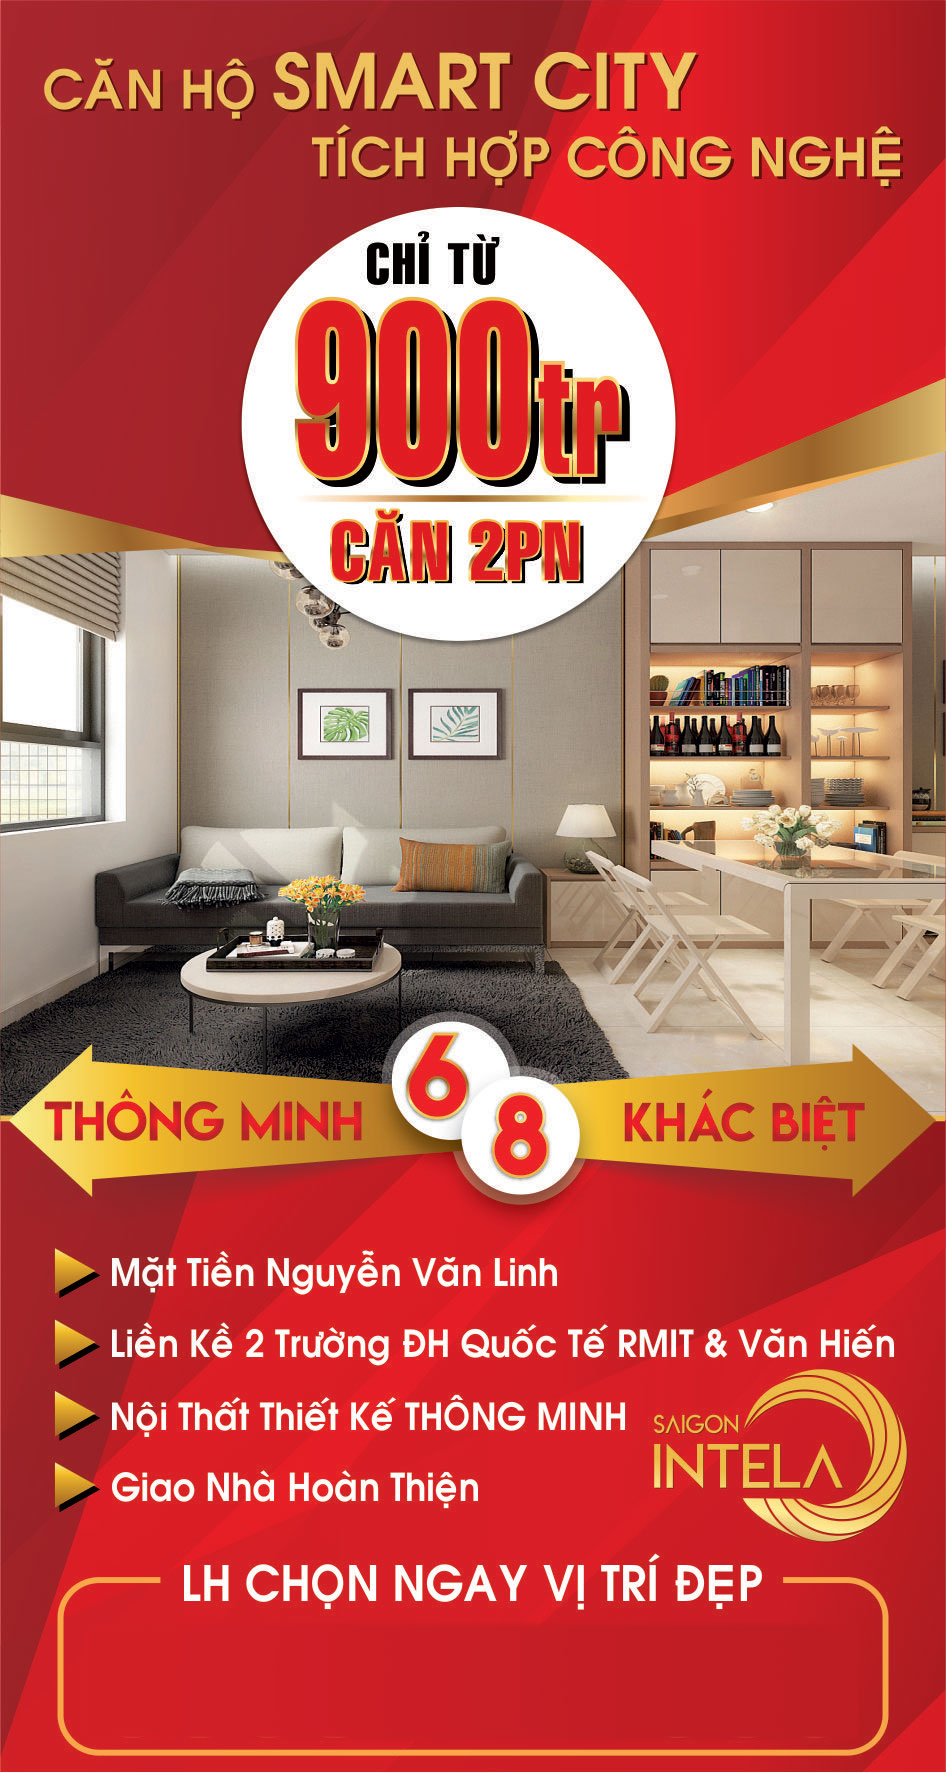
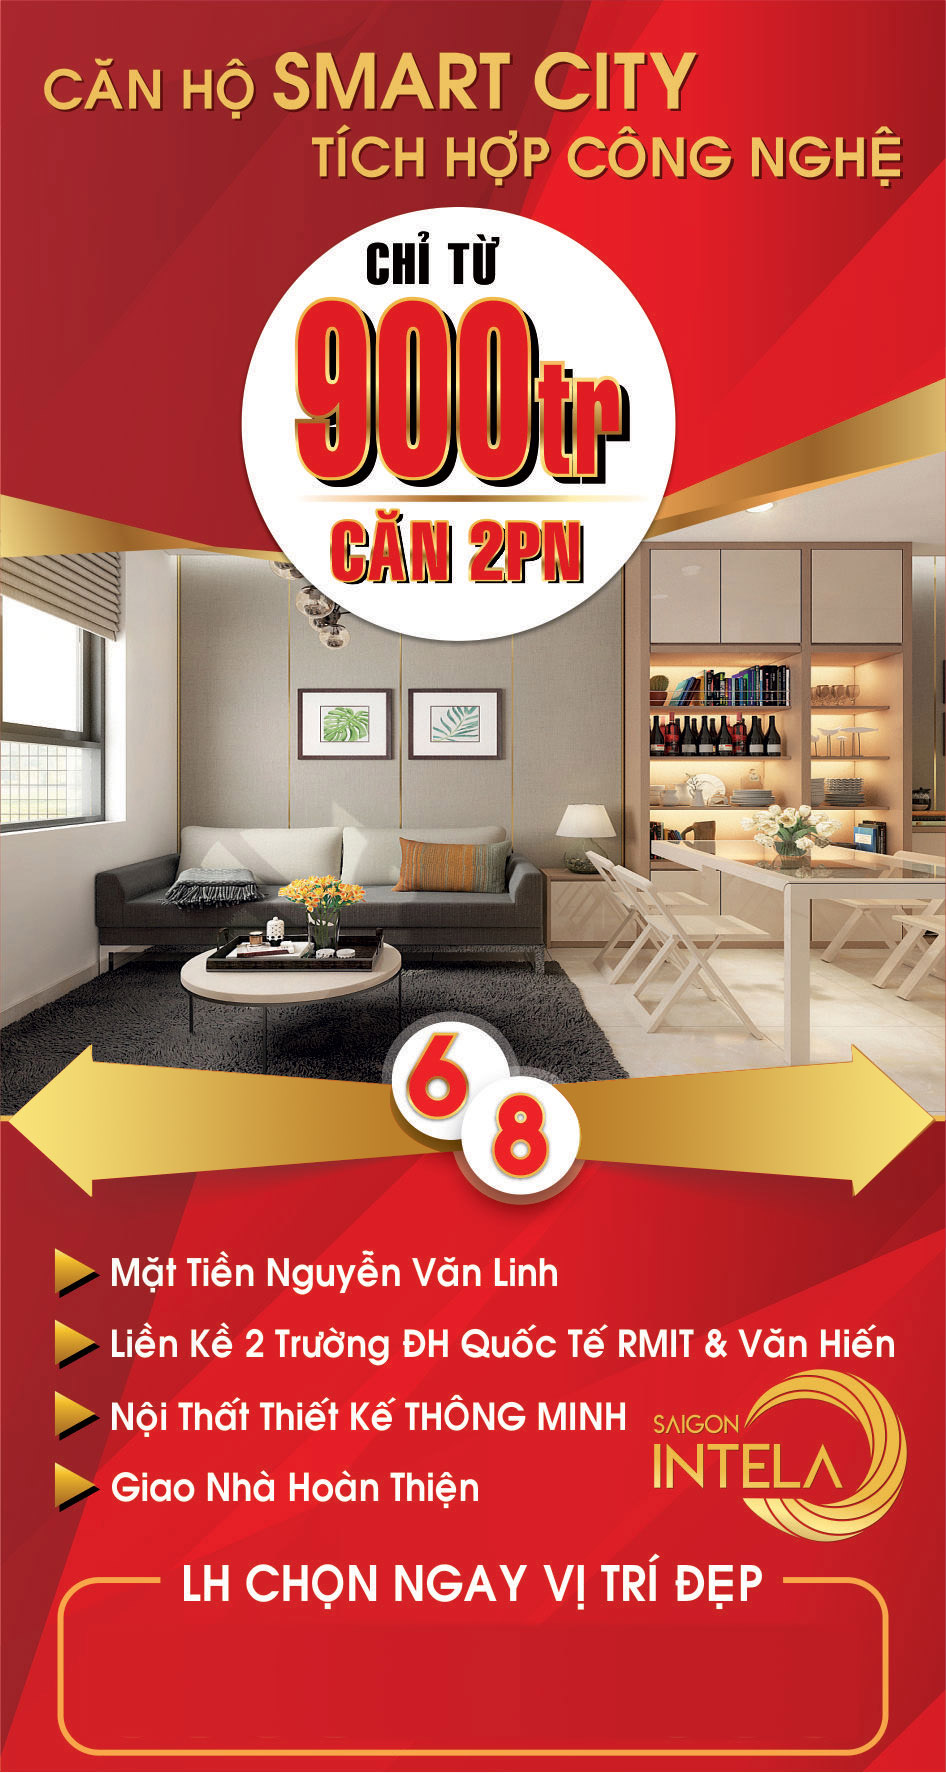
ok

Changed region(s): [[0.5825, 0.5894, 0.981, 0.6825], [0.0307, 0.5894, 0.4598, 0.6825]]

diff --git a/css/frontend.css b/css/frontend.css
@@ -412,27 +412,44 @@ This class is added to the container
   position: absolute;
   display: block;
   text-align: center;
-  top: 90.5%;
+  top: 63.5%;
   z-index: 99999;
-  min-height: 100vh;
-  color: white;
+  color: #9b1e22;
   width: 100%;
+  font-weight: 900;
 }
 
 .slider-on-mobile .slider-mobile-text .slider-header {
-  font-size: 40px;
+  font-size: 20px;
   text-transform: uppercase;
+  float: left;
+  padding-left: 5%;
+}
+
+.slider-on-mobile .slider-mobile-text .slider-header a {
+  color: #9b1e22;
 }
 
 .slider-on-mobile .slider-mobile-text .slider-description {
-  font-size: 25px;
-  margin-top: 20px;
-  padding-left: 20px;
-  padding-right: 20px;
-  line-height: 1.6;
+  font-size: 20px;
+  float: right;
+  padding-right: 7%;
 }
 
-.slider-on-mobile .slider-mobile-text .btn-lienhe {
+.slider-on-mobile .slider-mobile-text .slider-description a {
+  color: #9b1e22;
+}
+
+.slider-on-mobile .slider-lienhe {
+  position: absolute;
+  top: 90.5%;
+  z-index: 99999;
+  min-height: 100vh;
+  width: 100%;
+  text-align: center;
+}
+
+.slider-on-mobile .slider-lienhe .btn-lienhe {
   background-color: #960d13;
   color: #fff;
   text-transform: uppercase;
@@ -451,6 +468,23 @@ This class is added to the container
   min-height: 100vh;
   width: 100%;
   top: 0;
+}
+
+.blink_me {
+  -webkit-animation: blinker 1s linear infinite;
+          animation: blinker 1s linear infinite;
+}
+
+@-webkit-keyframes blinker {
+  50% {
+    opacity: 0;
+  }
+}
+
+@keyframes blinker {
+  50% {
+    opacity: 0;
+  }
 }
 
 @media screen and (max-width: 415px) {

diff --git a/local/resources/assets/sass/fe.slider.scss b/local/resources/assets/sass/fe.slider.scss
@@ -33,22 +33,36 @@
     position: absolute;
     display: block;
     text-align: center;
-    top: 90.5%;
+    top: 63.5%;
     z-index: 99999;
-    min-height: 100vh;
-    color: white;
+    color: #9b1e22;
     width: 100%;
+    font-weight: 900;
     .slider-header{
-      font-size: 40px;
+      font-size: 20px;
       text-transform: uppercase;
+      float:left;
+      padding-left:5%;
+      a{
+        color: #9b1e22;
+      }
     }
     .slider-description{
-      font-size: 25px;
-      margin-top: 20px;
-      padding-left: 20px;
-      padding-right: 20px;
-      line-height: 1.6;
+      font-size: 20px;
+      float: right;
+      padding-right:7%;
+      a{
+        color: #9b1e22;
+      }
     }
+  }
+  .slider-lienhe{
+    position: absolute;
+    top:90.5%;
+    z-index: 99999;
+    min-height: 100vh;
+    width: 100%;
+    text-align: center;
     .btn-lienhe{
       background-color: #960d13;
       color: #fff;
@@ -70,6 +84,13 @@
   min-height: 100vh;
   width: 100%;
   top: 0;
+}
+.blink_me {
+  animation: blinker 1s linear infinite;
+}
+
+@keyframes blinker {
+  50% { opacity: 0; }
 }
 
 @media screen and(max-width: 415px) {

diff --git a/js/be.config.js b/js/be.config.js
@@ -3,9 +3,11 @@ if ($('#cf-address-post').length) {
         height: 200,
         language: 'vi',
         format_tags: 'p;h1;h2;h3;pre',
-        filebrowserImageBrowseUrl: '../../js/ckfinder/ckfinder.html?Type=images',
-        filebrowserFlashBrowseUrl: '../../js/ckfinder/ckfinder.html?Type=flash',
-        filebrowserImageUploadUrl: '../../js/ckfinder/core/connector/php/connector.php?command=QuickUpload&type=Images',
-        filebrowserFlashUploadUrl: '../../js/ckfinder/core/connector/php/connector.php?command=QuickUpload&type=Flash',
+        filebrowserBrowseUrl: '../../js/kcfinder/browse.php?type=files',
+        filebrowserImageBrowseUrl: '../../js/kcfinder/browse.php?type=images',
+        filebrowserFlashBrowseUrl: '../../js/kcfinder/browse.php?type=flash',
+        filebrowserUploadUrl: '../../js/kcfinder/upload.php?type=files',
+        filebrowserImageUploadUrl: '../../js/kcfinder/upload.php?type=images',
+        filebrowserFlashUploadUrl: '../../js/kcfinder/upload.php?type=flash'
     });
 }

diff --git a/local/resources/assets/js/be.config.js b/local/resources/assets/js/be.config.js
@@ -3,9 +3,11 @@ if ($('#cf-address-post').length) {
         height: 200,
         language: 'vi',
         format_tags: 'p;h1;h2;h3;pre',
-        filebrowserImageBrowseUrl: '../../js/ckfinder/ckfinder.html?Type=images',
-        filebrowserFlashBrowseUrl: '../../js/ckfinder/ckfinder.html?Type=flash',
-        filebrowserImageUploadUrl: '../../js/ckfinder/core/connector/php/connector.php?command=QuickUpload&type=Images',
-        filebrowserFlashUploadUrl: '../../js/ckfinder/core/connector/php/connector.php?command=QuickUpload&type=Flash',
+        filebrowserBrowseUrl: '../../js/kcfinder/browse.php?type=files',
+        filebrowserImageBrowseUrl: '../../js/kcfinder/browse.php?type=images',
+        filebrowserFlashBrowseUrl: '../../js/kcfinder/browse.php?type=flash',
+        filebrowserUploadUrl: '../../js/kcfinder/upload.php?type=files',
+        filebrowserImageUploadUrl: '../../js/kcfinder/upload.php?type=images',
+        filebrowserFlashUploadUrl: '../../js/kcfinder/upload.php?type=flash'
     });
 }

diff --git a/js/be.news.js b/js/be.news.js
@@ -12,6 +12,20 @@ if ($('#content-news').length) {
     })
     ;
 }
+if ($('#content-news-edit').length) {
+    CKEDITOR.replace('content-news', {
+        height: 800,
+        language: 'vi',
+        format_tags: 'p;h1;h2;h3;pre',
+        filebrowserBrowseUrl: '../../../js/kcfinder/browse.php?type=files',
+        filebrowserImageBrowseUrl: '../../../js/kcfinder/browse.php?type=images',
+        filebrowserFlashBrowseUrl: '../../../js/kcfinder/browse.php?type=flash',
+        filebrowserUploadUrl: '../../../js/kcfinder/upload.php?type=files',
+        filebrowserImageUploadUrl: '../../../js/kcfinder/upload.php?type=images',
+        filebrowserFlashUploadUrl: '../../../js/kcfinder/upload.php?type=flash'
+    })
+    ;
+}
 if ($('#btnBrowse').length) {
     var button1 = document.getElementById('btnBrowse');
 

diff --git a/local/resources/assets/js/be.news.js b/local/resources/assets/js/be.news.js
@@ -12,6 +12,20 @@ if ($('#content-news').length) {
     })
     ;
 }
+if ($('#content-news-edit').length) {
+    CKEDITOR.replace('content-news', {
+        height: 800,
+        language: 'vi',
+        format_tags: 'p;h1;h2;h3;pre',
+        filebrowserBrowseUrl: '../../../js/kcfinder/browse.php?type=files',
+        filebrowserImageBrowseUrl: '../../../js/kcfinder/browse.php?type=images',
+        filebrowserFlashBrowseUrl: '../../../js/kcfinder/browse.php?type=flash',
+        filebrowserUploadUrl: '../../../js/kcfinder/upload.php?type=files',
+        filebrowserImageUploadUrl: '../../../js/kcfinder/upload.php?type=images',
+        filebrowserFlashUploadUrl: '../../../js/kcfinder/upload.php?type=flash'
+    })
+    ;
+}
 if ($('#btnBrowse').length) {
     var button1 = document.getElementById('btnBrowse');
 

diff --git a/local/resources/views/frontend/slider/index.blade.php b/local/resources/views/frontend/slider/index.blade.php
@@ -12,9 +12,16 @@
         <div class="slider-on-mobile hidden-md hidden-lg">
             {{ Html::image('images/sliders/SMART-CITY-800x1500.jpg','',array('class'=>'slider-mobile hidden-md hidden-lg')) }}
             <div class="slider-mobile-text">
-                {{--<p class="slider-header">Sài Gòn Intela</p>--}}
-                {{--<p class="slider-description">Chỉ Thanh Toán 300 triệu nhận ngay căn hộ thông minh văn mình</p>--}}
-                <a href="{{URL::to('lien-he')}}"><button id="" class="btn btn-lienhe">LIÊN HỆ</button></a>
+                {{--<p class="slider-header blink_me"><a href="http://www.saigonintelahcm.com/tin-tuc/6-tieu-chuan-can-ho-thong-minh">ThÔNG MINH</a></p>--}}
+                <p class="slider-header blink_me"><a href="#">ThÔNG MINH</a></p>
+                {{--<p class="slider-description blink_me"><a href="http://www.saigonintelahcm.com/tin-tuc/8-dieu-khac-biet-duy-nhat-chi-co-tai-saigon-intela">KHÁC BIỆT</a></p>--}}
+                <p class="slider-description blink_me"><a href="#">KHÁC BIỆT</a></p>
+
+            </div>
+            <div class="slider-lienhe">
+                <a href="{{URL::to('lien-he')}}">
+                    <button id="" class="btn btn-lienhe blink_me">LIÊN HỆ</button>
+                </a>
             </div>
         </div>
     </div>

diff --git a/local/resources/views/frontend/trangchu/thongtin.blade.php b/local/resources/views/frontend/trangchu/thongtin.blade.php
@@ -45,7 +45,7 @@
                     <div class="tt-description tt-d-right">
                         <h3>Tiến Độ Dự Án</h3>
                         <div class="tt-description-detail">
-                            <p>Dự Án Khởi Công Tháng 7 Vừa Qua Và Dự Kiến Bàn Giao Quý 4/2019</p>
+                            <p>Dự Án Khởi Công Tháng 7 Vừa Qua Và Dự Kiến Bàn Giao Quý II/2019</p>
                         </div>
                     </div>
                 </li>
@@ -54,7 +54,7 @@
                     <div class="tt-description tt-d-right">
                         <h3>Chủ Đầu Tư Là Ai</h3>
                         <div class="tt-description-detail">
-                            <p>Công Ty Cổ Phần Đầu Tư LDG (LDG Group), Thành Viên Tập Đàon Đất Xanh</p>
+                            <p>Công Ty Cổ Phần Đầu Tư LDG (LDG Group), Thành Viên Tập Đoàn Đất Xanh</p>
                         </div>
                     </div>
                 </li>

diff --git a/local/app/Http/Requests/MailRequest.php b/local/app/Http/Requests/MailRequest.php
@@ -29,7 +29,7 @@ class MailRequest extends FormRequest
             case 'POST': {
                 return [
                     'name' => 'required',
-                    'email'=>'required|email',
+//                    'email'=>'required|email',
                     'phone'=>'required'
                 ];
             }
@@ -41,8 +41,8 @@ class MailRequest extends FormRequest
     {
         return [
             'name.required' => 'Mời Quý Khách Nhập Tên Liên Hệ',
-            'email.required' => 'Mời Quý Khách Nhập Email',
-            'email.email' => 'Mời Quý Khách Nhập Nhập Đúng Định Dạng Email',
+//            'email.required' => 'Mời Quý Khách Nhập Email',
+//            'email.email' => 'Mời Quý Khách Nhập Nhập Đúng Định Dạng Email',
             'phone.required' => 'Xin Vui Lòng Nhập Số Điện Thoại',
         ];
     }

diff --git a/local/app/Http/Controllers/MailController.php b/local/app/Http/Controllers/MailController.php
@@ -11,11 +11,14 @@ use App\Mail\SendingMailToMe;
 
 class MailController extends Controller
 {
-    public function send(MailRequest $request){
-        echo'1';
+    public function send(MailRequest $request)
+    {
+
         Mail::send(new SendingMailToMe());
-        Mail::send(new SendingMailToCustomer());
-        if( count(Mail::failures()) > 0 ) {
+        if ($request->input('email')) {
+            Mail::send(new SendingMailToCustomer());
+        }
+        if (count(Mail::failures()) > 0) {
 
             echo "Thua <br />";
 
@@ -24,7 +27,9 @@ class MailController extends Controller
 //            }
 
         } else {
-            Mail::send(new SendingMailToCustomer());
+            if ($request->input('email')) {
+                Mail::send(new SendingMailToCustomer());
+            }
             return response()->json([
                 'success' => true
             ]);

diff --git a/local/resources/views/backend/admin/news/edit.blade.php b/local/resources/views/backend/admin/news/edit.blade.php
@@ -40,7 +40,7 @@
         <div class="col-xs-12 col-sm-12 col-md-12">
             <div class="form-group">
                 <strong>Nội Dung:</strong>
-                {!! Form::textarea('content-news',$news->content, array('placeholder' => 'Nội Dung','id'=>'content-news','class' => 'form-control','rows'=>'20','style'=>'resize:none')) !!}
+                {!! Form::textarea('content-news',$news->content, array('placeholder' => 'Nội Dung','id'=>'content-news-edit','class' => 'form-control','rows'=>'20','style'=>'resize:none')) !!}
             </div>
         </div>
         <div class="col-xs-12 col-sm-12 col-md-12">

diff --git a/local/resources/views/frontend/trangchu/lienhe.blade.php b/local/resources/views/frontend/trangchu/lienhe.blade.php
@@ -34,7 +34,7 @@
         </div>
         <div class="col-md-6">
             <div class="form-group">
-                <label for="email">Email<span class="lh-red">*</span>:</label>
+                <label for="email">Email:</label>
                 {!! Form::text('lh_email', null, array('placeholder' => '','class' => 'form-control')) !!}
                 <i class="fa fa-exclamation-circle errorEmail" rel="popover" data-toggle="tooltip" data-placement="top"
                    title="Tên Không Được Để Trống"></i>
